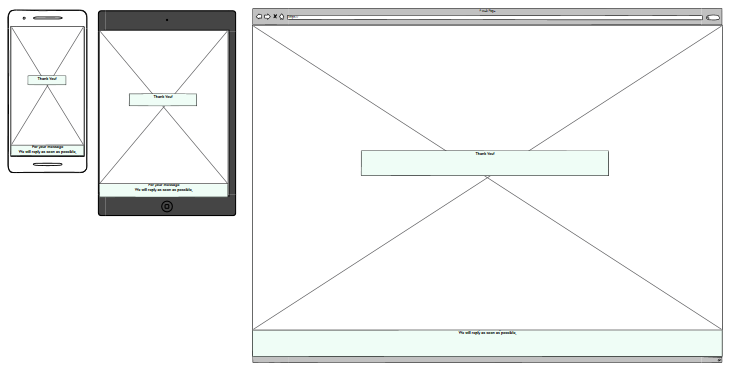
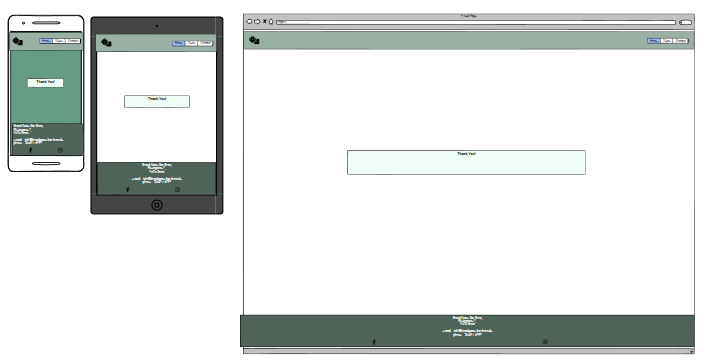
I have made improvements and additions to the readme.

diff --git a/README.md b/README.md
@@ -91,21 +91,21 @@ Images used are from the site https://www.freepik.com/
 ### Wireframe
 At the beginning I had planned a website with 5 pages: Home, News, Menu and Contact and an additional "thanks page" as response for the contact form. But I realized that this is too much for a first project. Therefore the news page will come later in the first update. News are still shown on the landing page to serve the need to provide News of the Bar to the visiter.
 
-I also planned the website with too many pictures and detailed information. Therefore the Homepage has been redesigned. The menu page stayed almost the same. There i did not to a new wireframe for that page.
+I also planned the website with too many pictures and detailed information. Therefore the Homepage has been redesigned. The menu page stayed almost the same. There i did not do a new wireframe for that page.
 
 Here are the Wireframes:
 
-Old Wireframe for the homepage <br>
+Old Wireframe for the homepage: <br>
 ![](assets/images/readme-images/wireframe-old-home.png "Old wireframe for the homepage") <br>
-Old Wireframe for the news page <br>
+Old Wireframe for the news page: <br>
 ![](assets/images/readme-images/wireframe-old-news.png "Old wireframe for the homepage") <br>
-New Wireframe for the homepage <br>
+New Wireframe for the homepage: <br>
 ![](assets/images/readme-images/wireframe-new-home.png "New wireframe for the homepage" ) <br>
-Wireframe for the menu page <br>
+Wireframe for the menu page: <br>
 ![](assets/images/readme-images/wireframe-menu.png "Wireframe for the contact menu") <br>
-Wireframe for the contact page <br>
+Wireframe for the contact page: <br>
 ![](assets/images/readme-images/wireframe-contact.png "Wireframe for the contact page") <br>
-Wireframe for the thanks page <br>
+Wireframe for the thanks page: <br>
 ![](assets/images/readme-images/wireframe-thanks.png "Wireframe for the thanks page") <br>
 
 
@@ -113,37 +113,36 @@ Wireframe for the thanks page <br>
 The website is planned as a multi-page project. These pages can be accessed via the navigation menu. There are the Home, Menu and Contat pages. 
 In addition, a thank you page has been created for sending a message, after the user has filled and sended in the contact form.
 - Feature of all pages:
-    - The header with a navigation bar is positioned in the top right corner. This navigation bar can be used to navigate the page. To the left is an icon of a pair of dice, matching the boardgames theme.  
+    - The header with a navigation bar is positioned in the top right corner. This navigation bar can be used to navigate the page. To the left is an icon of a pair of dice, matching the boardgames theme. The cube also has a link that leads to the homepage
 
     - In addition, the footer is the same on all pages. The footer contains the address of the bar and the social media icon with links to instergram and facebook.
 
 - Home Page 
     - Below the header is a background image with a view of the bar. On the picture you can read the words "Welcome at the BBB Boardgame Bar Bonn".
-    - The first section of the page is an About that briefly explains the bar and the concept.
-    - Followed by the 2nd section which draws attention to the news and invites you to follow a link there for more information.
-    - The 3rd section is an explanation of how to "plan your first visit". It is a 4 steps guide. Icons have been used here to lighten up the presentation, matching the points that are explained. The menu is link to a subpage and the list of the game collection to an external page. 
-    - The 4 section has information about the fees for playing a boardgame in the bar. 
-    - The 5 section is the opening hours of the bar
-    - The 6 section is directions on how to find the bar with an embedded googlemaps map.
+    - The first section of the page is an about section that briefly explains the bar and the concept.
+    - Followed by a section which draws attention to the news. There is a link which brings you to the menu page and an external link brings you to a list of all boardgames.
+    - The 4rd section is an explanation of how to "plan your first visit". It is a 4 steps guide. Icons have been used here to lighten up the presentation, matching the points that are explained. The menu page is linked, the opening hours section and an external link to the game collection is used.
+    - The 5 section has information about the fees for playing a boardgame in the bar. 
+    - The 6 section is the opening hours of the bar
+    - The 7 section is directions on how to find the bar with an embedded googlemaps map.
 ![](assets/images/readme-images/website-home-top.png "Screenshot homepage top") <br>
 ![](assets/images/readme-images/website-home-bottom.png "Screenshot homepage bottom") <br>
 
 - Menu Page:
-    - On the Menu page, is a hero image with a Headline "Boardgame Bar Bonn Menu". The menu page has 2 sections. The 1st section contains all drinks. Here are 3 lists divided into hot drinks, cold drinks and alcoholic drinks. The 2nd section contains the dishes on offer. These are divided into the 4 categories Burger, Fingerfood, Sancks and Dips
+    - On the Menu page, is a hero image with a headline "Boardgame Bar Bonn Menu". The menu page has 2 sections. The 1st section contains all drinks. Here are 3 lists divided into hot drinks, cold drinks and alcoholic drinks. The 2nd section contains the dishes on offer. These are divided into the 4 categories Burger, Fingerfood, Sancks and Dips
 ![](assets/images/readme-images/website-menu.png "Screenshot menu page") <br>
 
 - Contact Page.
     - On the contact page there is a form in which you can enter your name, first name, e-mail address and telephone number. The phone number is optional. The other fields are mandatory. 
-    - Below this are radio buttons where you have to select the reason for the message. There is a choice. Reservation, Question Subscribe to newsletter, Request for a callback. This allows the messages to be pre-sorted by topic. This is followed by a text input field. With a send button underneath.
+    - Below this are radio buttons where you have to select the reason for the message. There is a choice. Reservation, Question Subscribe to newsletter, Request for a callback. This allows the messages to be pre-sorted by topic. This is followed by a text input field. With a send button underneath. After Sending the Message the user will get a response.
     ![](assets/images/readme-images/website-contact.png "Screenshot contact page") <br>
 
 - Thank You Page.
-    - Thank you message for send a text via the contact form. Thank you is written in the image. "for your message, we will reply as soon as possible" is wirten in the footer.
+    - Thank you message for send a text via the contact form. "Thank you We will be in touch shortly" is written in the middel of the side.
     ![](assets/images/readme-images/website-thanks.png "Screenshot thanks page") <br>
 
 - Future Implementations.
-    - Redesign the thank you page, for a better Look to the rest of the website.
-    - At first I had planned to create my own news page. Due to my own schedule for this project I have discarded this.. Only the two latest news will be listed on the homepage. The own page will be realized in the future. 
+    - At first I had planned to create seperate news page. This should be be realized in the future. 
     - There should be more detailed pictures of the bar with the individual rooms in a page with the title "Our premises". These pictures will be taken by a professional photographer and were not yet available at the start of the project. There will also be a 3D tour of the bar so that customers can get a better impression before their visit. 
     - A booking system is to be added where tables and seats can be booked and reserved online. This will make the staff's work easier and offer more convenience for guests, as they will receive a direct response and will not have to wait for feedback. At the same time, a member area is created. Java script and a backend are required for this.
     - The games are recorded in a separate database and guests can search for specific categories and have new games suggested to them. The games can also be loaned out for a limited period of time so that guests can play the games at home. All games in the game library are to be presented in course presentations. In addition, the rules should be explained in a video which is linked to the database entry. These instructions will be linked to the games in the store via a QR code. The guest can therefore also scan the QR code in the store and watch the instructions and video.
@@ -157,13 +156,11 @@ To ensure Accessibility the following things were done:
 - I provided information for screen readers
 - I used good color contrast and a tested color palette
 
-
 ## Technologies Used
 ### Languages Used
 HTML and CSS were used for this project.
 
 ### Software and frameworks Used
-
 Balsamiq - To create a wireframe \
 Gitpod - To code the website \
 Git - For version control \
@@ -178,41 +175,43 @@ Birme To change the image to webp format \
 Am I Responsive? To check if the page is responsive \ 
 
 ## Deployment
-
-The project was codes with gipod and then deployed on Github. That is how the deployment was done.
-How I did the deployment:
- - Log in at GitHub and navtigate to the repo of the project
+The project was codes with gipod and then deployed on Github. That is how the deployment was done:
+ - I loged in at GitHub and navtigate to the repo of the project
  - I clicked on Settings and navigated to "Github pages"
- - There I seted the source from none to master.
- - Then this link was deployed automatically: https://suredeveloping.github.io/Boardgame-Bar-Bonn/index.html
+ - There I seted the source of Deploy from a branch and set the branch from none to main and clicked save.
+ - Then this link was deployed automatically: https://suredeveloping.github.io/Boardgame-Bar-Bonn/
 
 ## Testing
-The page was tested on different ways and different errors came to light. These will now be discussed:
+The page was tested on different ways and different errors came to light.
 
 ### Manual Testing:
- - I tested all the links and the Form. Those are working cery well.
- - Also I used def Toll check if the side is working on different screen sizes.
+ I tested all the links and the Form. This was done during the hole prozess. This was done repeatedly throughout the project. A detailed description of the bugs can be found in solved and unsolved bugs.
 
 ### Chrom Developer Tools
-- Also I used def Toll check if the side is working on different screen sizes.
- I used Lighthouse to Test my Webside. This Opimisation I did afterwards:
- - add an area lable to the link which is conetced with the dice logo.
+ - I used Def-tolls to check if the side is working on different screen sizes.
+ - I used Lighthouse to test my webside. This opimisation I did afterwards:
+ - I add an area lable to the link which is conetced with the dice logo.
  - I comprimised the pictures.
  - I had the heading sizes out of order and changed it.
+
+Image of the Lighthouse test result:
+![](assets/images/readme-images/lighthouse-test.png "Lighthouse test") <br>
 
 ### Slack peer groupe rewiew:
 I have submitted my project but have not received any feedback yet.
 
 ### W3C Validator
-I used thz W3C calidator to check the HTML and the CSS code on all pages of the website of the project.
+I used the W3C calidator to check the HTML and the CSS code on all pages of the website of the project.
 CSS:
  - I had a unused calss in the css code. 
  - I had a not in use curly bracket in for the Fotter section in the css code.
  - I had twice a color rule for the same atribute in the code.
  - I had a 0 in a padding code, which was to muche there.
 
+After that the projcts has no more errors:
+![](assets/images/readme-images/css-validator.png "CSS validator")
+
 HTML:
-    index.html
  - I had some unsed bits of Code in the index Html for classes, Which i could just delite.
  - I had had " in the i element for the dice logo.
  - I hat a error in the iframe from the "map". Width 100& was not Ok. So i look for anthoer way to add the map.
@@ -220,12 +219,14 @@ HTML:
  - I hat a h3 putted in a table in the meunu html. Copy Past mistake.
  - I had twice the same id in the contact form in use.
 
+ After that the projcts has no more errors:
+ The Waring came up after i uses an aria-lable for the dice. This was a suggestion from Lighthouse to improve my accessibility.
+![](assets/images/readme-images/html-validation.png "Screenshot thanks page")
+
 ### Solved Bugs
-- The links in the main seaction change the color to black. I needed to adress the a elements. Then the color changed.
+- I wanted to cahnge the color in the main section to change into black. I needed to adress the a elements. Then the color changed. Before i used an Id which was not specific enought. 
 
 - The textfilds in the form had no padding. Thatwhy you could not read the text very well. This came up in a mentoring session. And I added a pedding to all those input filds.
-
-- I tried to style the links and the logo in the header and to the cplor black. This was not successful with an Id. Here I had to address the a Element for the logo directly to solve the problem
 
 - I tried to style the social links in the footer white. Initially again via an Id. in the Ul element. This was not successful either. The task could be solved via a class directly in the a Element.
 
@@ -238,7 +239,7 @@ HTML:
 
 ## Credits
 ### Code Used
--   I used the Asterisk wildcard selector from from the Love running project.
+-   I used the Asterisk wildcard selector from the Love running project.
 -   I used the Html code for the navbar from the Love running project.
 -   i used the Code for the social links in the footer from the Love running project.
 -   I got the idea for my contact from the sign up form of the Love Running project.
@@ -267,8 +268,8 @@ I like to Thank the follow person for the help during the project:
 - The Tutor Support team at Code Institute
 - Kristyna my Cohort Facilitator for advice and mental support
 
-** This project is for educational use only and was created for the Code Institute Module of User Centric front end development
-Created by Stephan Sure **
+** This project is for educational use only and was created for the Code Institute 
+course Full stack software development by Stephan Sure **
 
 
 
